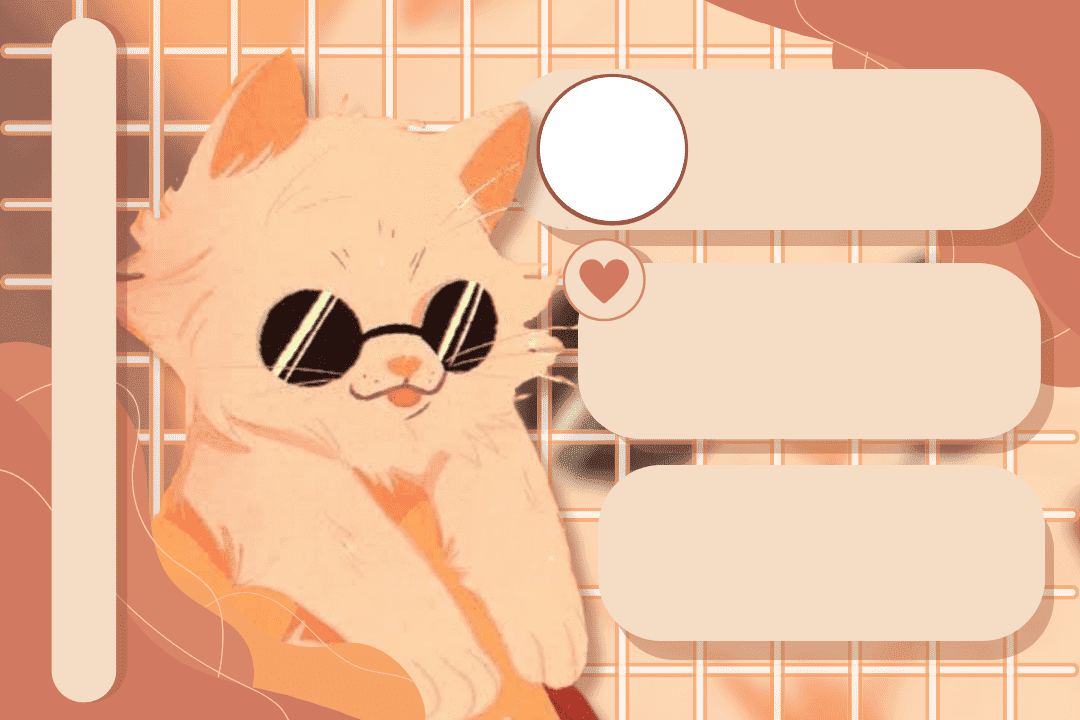
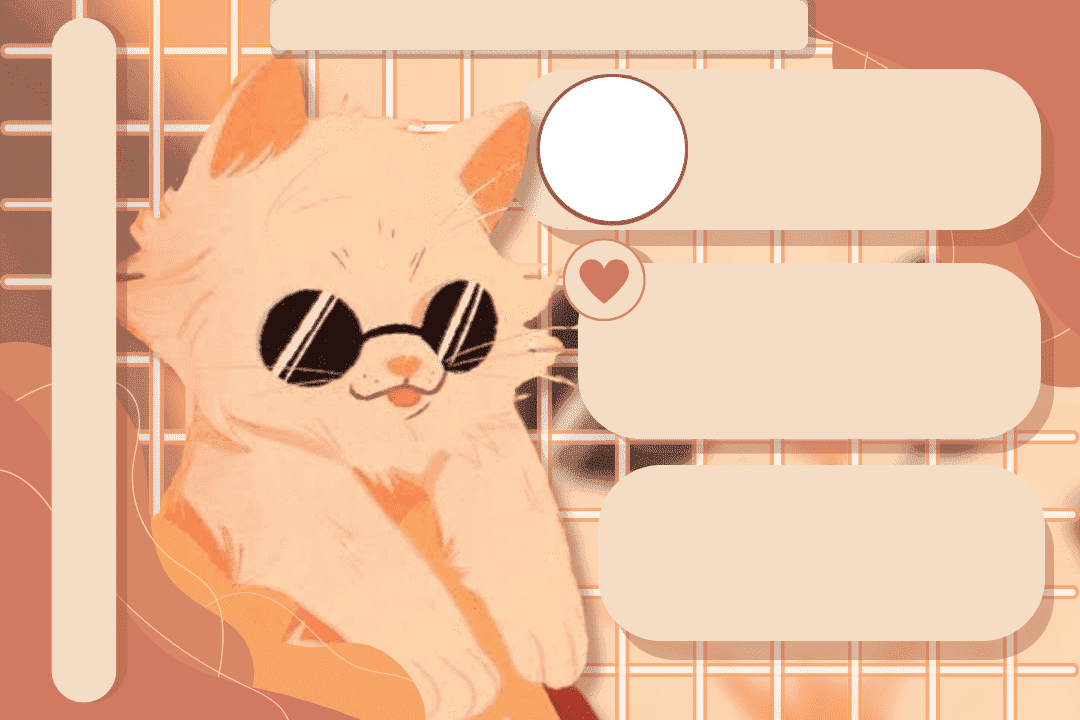
feat: add user titles to gatito profile theme

diff --git a/src/renderers/profiles/gatito.go b/src/renderers/profiles/gatito.go
@@ -26,6 +26,9 @@ func RenderGatito(User *utils.UserData, I18n *utils.I18n, db *database.Database)
 
 	ctx.DrawStringWrapped(User.Username, 610, 105, 0, 0, 455, 1, 1)
 
+	ctx.SetFontFace(*utils.GetFont("Mustard", 42))
+	ctx.DrawStringAnchored(User.Title, 539, 20, 0.5, 0.5)
+
 	if User.Married {
 		ctx.SetFontFace(*utils.GetFont("Mustard", 32))
 		ctx.DrawStringWrapped(User.MarryUsername, 620, 140, 0, 0, 430, 1, 1)
